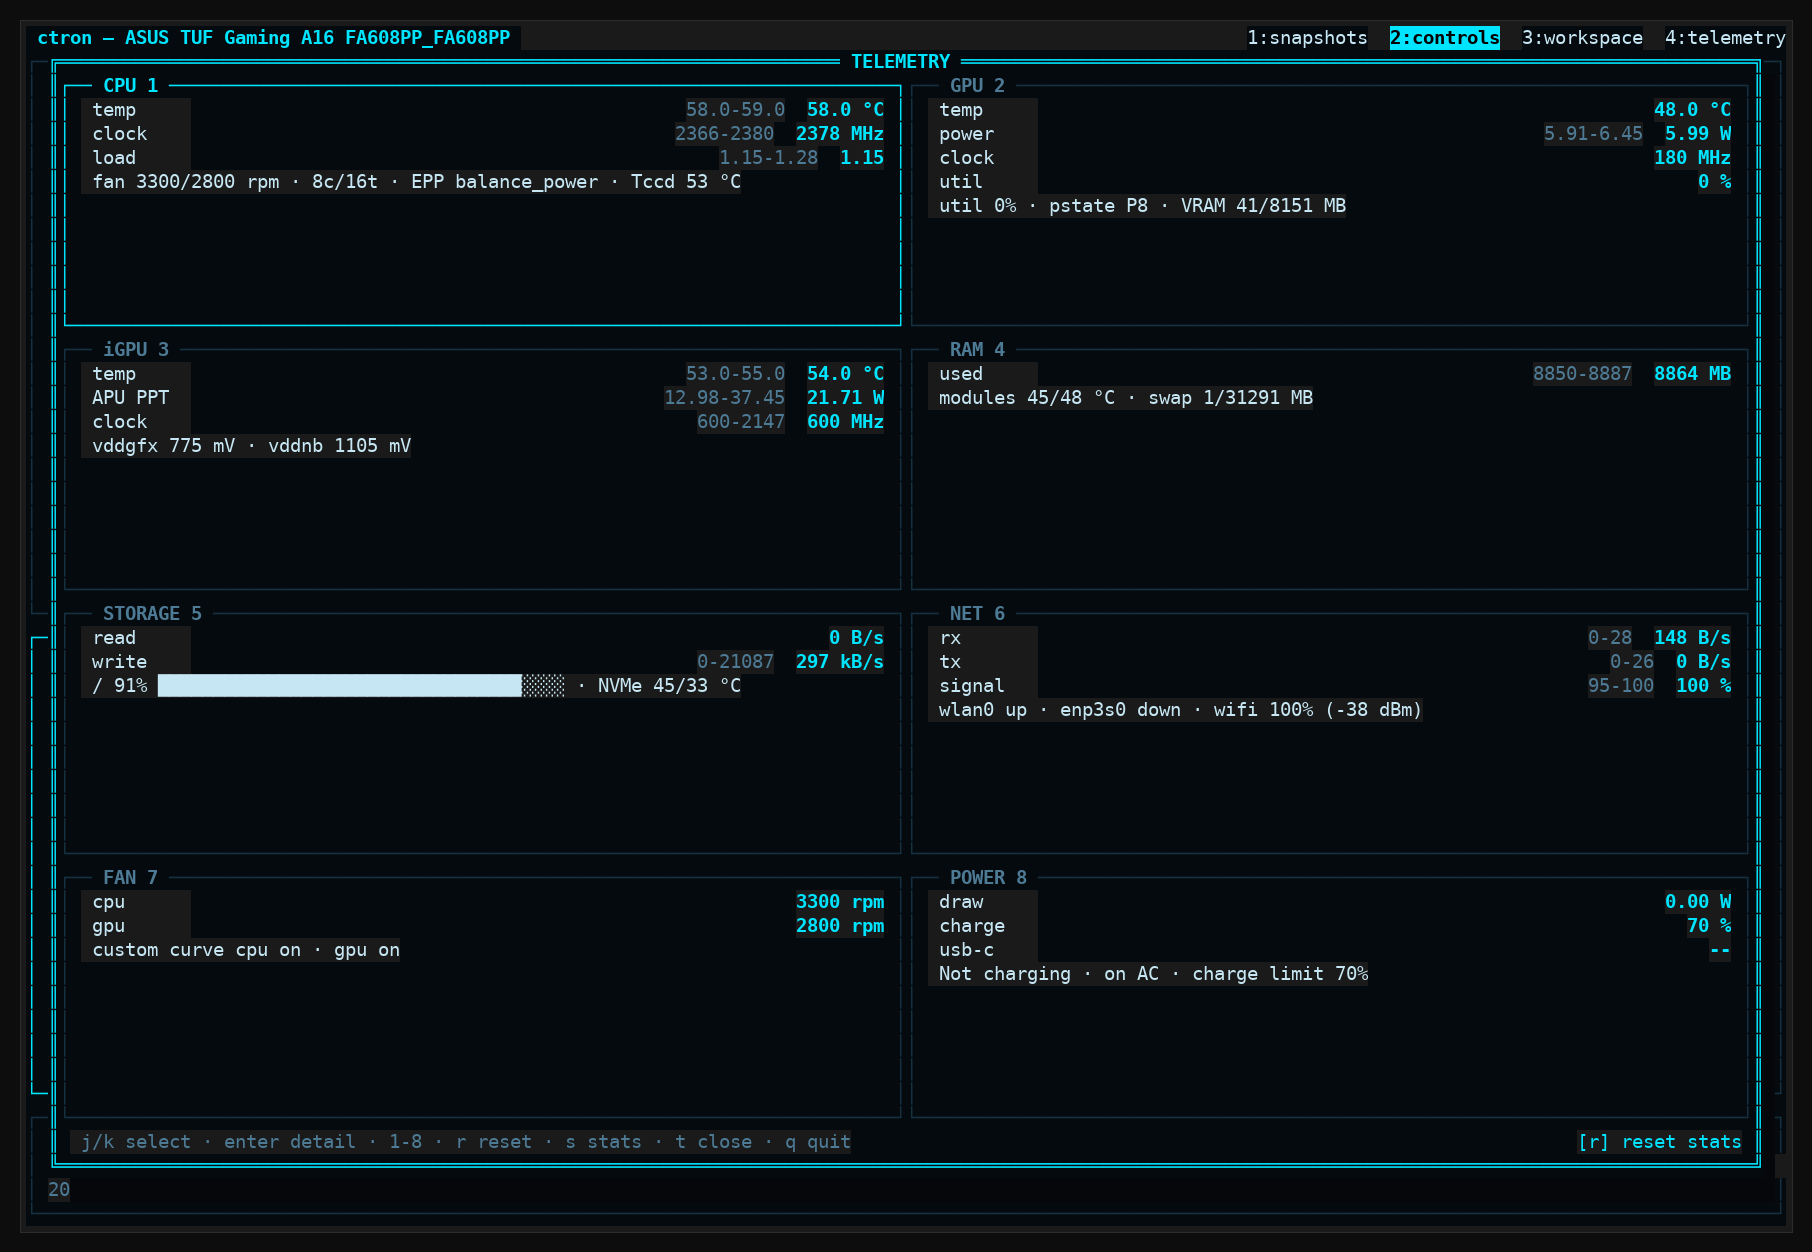
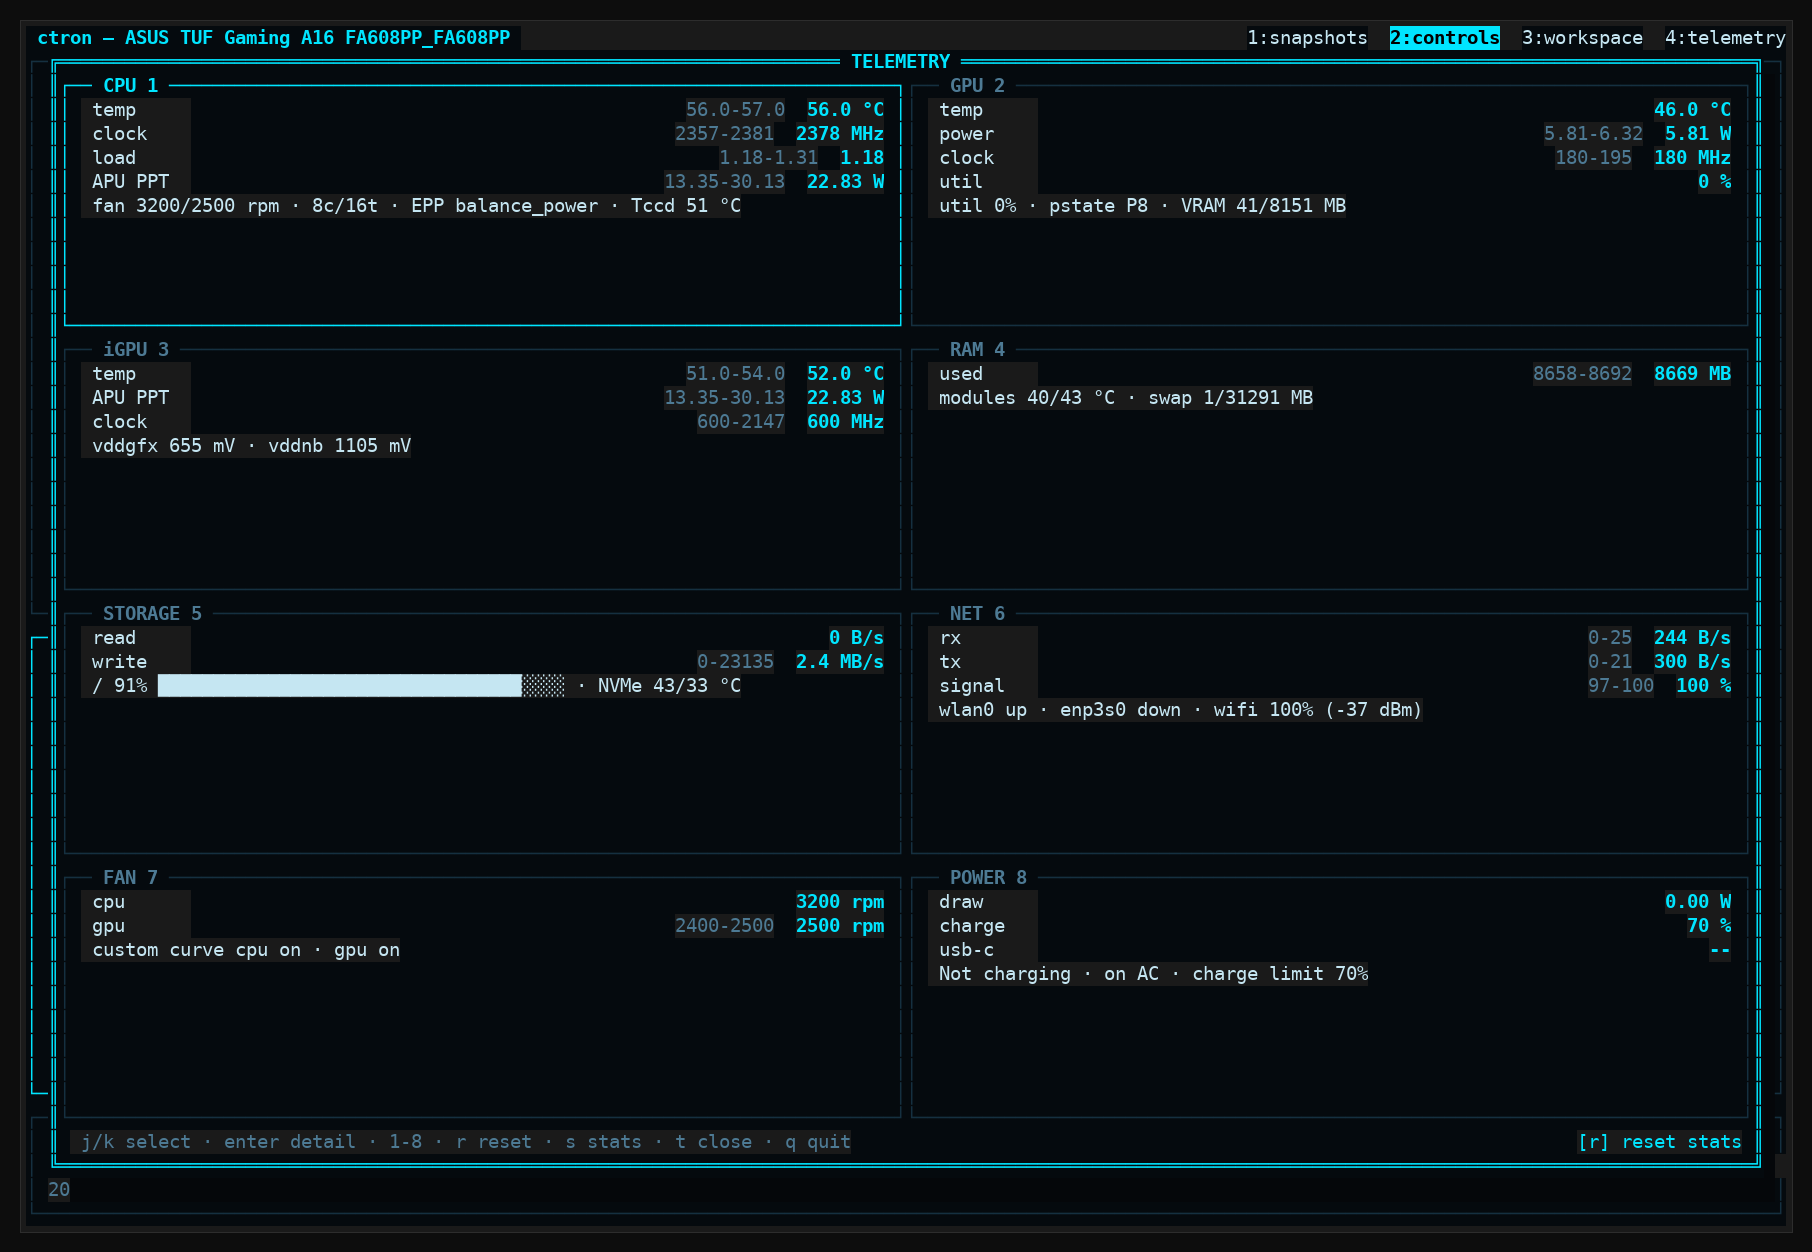
telem: APU PPT mirrored into the CPU section - user ask: the whole-package power series (amdgpu power1_input = CPU + iGPU, labelled APU PPT) lived only in the iGPU section; watching a CPU test wants it beside - added as a fourth CD_CPU entry reading the SAME TS_IGPU_MW ring (no second storage, no ne

diff --git a/src/ui/panel_telem_full.c b/src/ui/panel_telem_full.c
@@ -144,6 +144,10 @@ static const chartdef_t CD_CPU[] = {
       "thread-0 live frequency (sampled cpu)", ZN_NONE, -1, NULL },
     { "load", U_LOAD, TS_CPU_LOAD,
       "1-min load average (runnable tasks)", ZN_NONE, -1, NULL },
+    /* mirrored from the iGPU section: the same ring, no second
+     * storage — watching a CPU test wants the package power beside */
+    { "APU PPT", U_W, TS_IGPU_MW,
+     "whole-APU package power: CPU + iGPU", ZN_NONE, -1, NULL },
 };
 static const chartdef_t CD_GPU[] = {
     { "temp", U_TEMP, TS_GPU_TEMP, "dGPU temperature", ZN_TEMP, -1, NULL },

diff --git a/README.md b/README.md
@@ -97,10 +97,10 @@ are listed in the HELP view and the footer while you use them.
 `t` opens a **fullscreen read-only telemetry screen**: eight live
 sections (CPU / GPU / iGPU / RAM / storage / network / fans / power),
 each showing live numbers with zone colouring — CPU & GPU
-temperatures, clocks, load, fan RPMs, dGPU power/utilisation/VRAM,
-iGPU temp/clock/power, RAM use + module temps, NVMe temps + disk I/O,
-per-mount disk usage, per-interface network rx/tx, wifi signal
-quality, battery draw/charge.
+temperatures, clocks, load, APU package power, fan RPMs, dGPU
+power/utilisation/VRAM, iGPU temp/clock/power, RAM use + module
+temps, NVMe temps + disk I/O, per-mount disk usage, per-interface
+network rx/tx, wifi signal quality, battery draw/charge.
 `j`/`k` walk the section grid and `Enter` (or `1`–`8`) opens a
 section's **detail page**: a numeric now/min/avg/max table over the
 ~60 s window plus info lines from a fresh live snapshot (PPT/EPP,

diff --git a/CHANGELOG.md b/CHANGELOG.md
@@ -1,5 +1,18 @@
 # Changelog
 
+## 2026-10-29 — telem: APU PPT mirrored into the CPU section
+
+- User ask: the APU PPT series (whole-package power, CPU + iGPU —
+  amdgpu power1_input) lived only in the iGPU section; a CPU
+  watch wants it beside. Added as a fourth CD_CPU entry — the
+  SAME ring is read (TS_IGPU_MW), no second storage, no new
+  sensor: CPU grid box gains an "APU PPT" row (with window
+  min–max range) and the CPU detail table gains the row + legend
+  line. iGPU section unchanged; absent amdgpu stays honest "--".
+- Verified: 0 warnings, make test, full tuitest, live dumps of
+  the CPU grid box + detail, tui-telem.png re-shot, install in
+  the same breath.
+
 ## 2026-10-29 — critique round: since-reset stats + df-exact pct + csv guard + flash fix
 
 - The self-critique's four real findings, closed:

diff --git a/HANDOFF.md b/HANDOFF.md
@@ -1,6 +1,12 @@
 # Ctron Handoff
 
-Latest session — **2026-10-29 (13th round, critique fixes)**
+Latest session — **2026-10-29 (14th round, APU PPT → CPU section)**
+**GLM / Kerempkl / FA608PP**: user asked to add the APU PPT series
+to the CPU section — done as a fourth CD_CPU entry reading the
+SAME TS_IGPU_MW ring (no second storage/sensor); CPU grid box +
+detail table + legend carry "APU PPT" now, iGPU section unchanged.
+Verified: 0 warnings, make test, full tuitest, dumps, tui-telem.png,
+install same breath. Before that **2026-10-29 (13th round, critique fixes)**
 **GLM / Kerempkl / FA608PP**: user asked for a self-critique of the
 day's telemetry work, then "önerdiğin yolla düzelt" — all four real
 findings closed in one pass: ① **since-reset lifetime stats** (the
